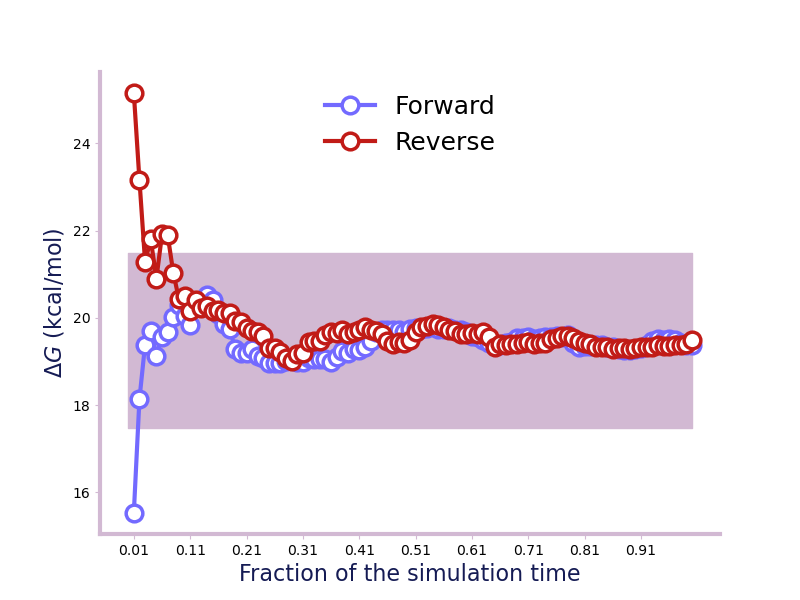
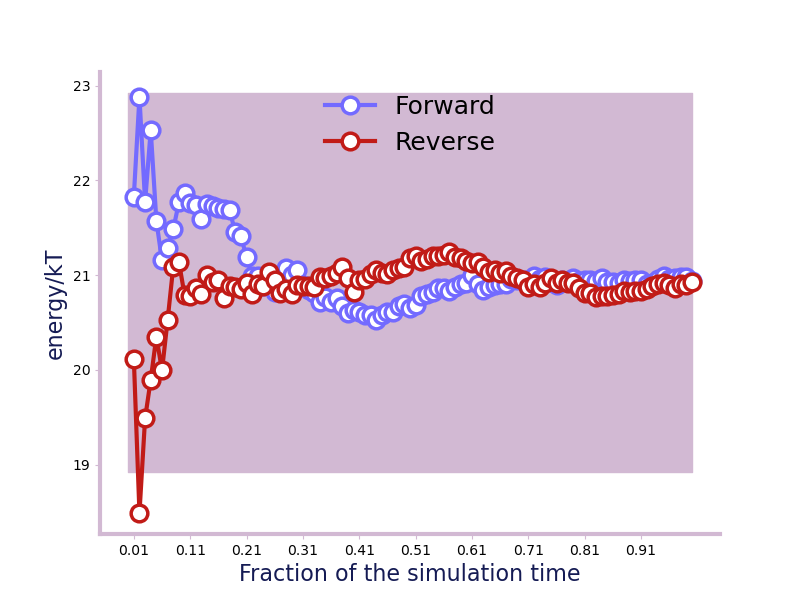
update

diff --git a/src/alchemlyb/convergence/convergence.py b/src/alchemlyb/convergence/convergence.py
@@ -7,7 +7,7 @@ import numpy as np
 from ..estimators import BAR, TI, FEP_ESTIMATORS, TI_ESTIMATORS
 from ..estimators import AutoMBAR as MBAR
 from .. import concat
-from ..postprocessors.units import to_kcalmol
+from ..postprocessors.units import to_kT
 
 
 def forward_backward_convergence(df_list, estimator='MBAR', num=10, **kwargs):
@@ -175,15 +175,15 @@ def _cummean(vals, out_length):
     result = np.cumsum(mean) / np.arange(1, out_length+1)
     return result
 
-def R_c(series, precision=0.01, tol=2):
-    '''Generate the convergence criteria R_c for a single simulation.
+def fwdrev_cumavg_Rc(series, precision=0.01, tol=2):
+    '''Generate the convergence criteria :math:`R_c` for a single simulation.
 
     The input will be pandas.Series generated by
     :func:`~alchemlyb.preprocessing.subsampling.decorrelate_u_nk` or
     :func:`~alchemlyb.preprocessing.subsampling.decorrelate_dhdl`.
 
-    The output will the float R_c. R_c = 0 indicates that the system is well
-    equilibrated right from the beginning while R_c = 1 signifies that the
+    The output will the float :math:`R_c`. :math:`R_c = 0` indicates that the system is well
+    equilibrated right from the beginning while :math:`R_c = 1` signifies that the
     whole trajectory is not equilibrated.
 
     Parameters
@@ -191,9 +191,11 @@ def R_c(series, precision=0.01, tol=2):
     series : pandas.Series
         The input energy array.
     precision : float
-        The precision of the output R_c.
+        The precision of the output :math:`R_c`. To speed the calculation up, the data
+        has been block-averaged before doing the calculation, the size of the
+        block is controlled by the desired precision.
     tol : float
-        Tolerance of the convergence check in kcal/mol.
+        Tolerance of the convergence check in :math:`kT`.
 
     Returns
     -------
@@ -216,14 +218,14 @@ def R_c(series, precision=0.01, tol=2):
 
     Note
     ----
-    This function tries to compute R_c from equation 16 from
+    This function computes :math:`R_c` from equation 16 from
     https://www.ncbi.nlm.nih.gov/pmc/articles/PMC8397498/#FD16. The code is
     modified based on Shujie Fan's (@VOD555) work.
 
 
     .. versionadded:: 1.0.0
     '''
-    series = to_kcalmol(series)
+    series = to_kT(series)
     array = series.to_numpy()
     out_length = int(1 / precision)
     g_forward = _cummean(array, out_length)
@@ -238,7 +240,7 @@ def R_c(series, precision=0.01, tol=2):
 
     # Final value
     g = g_forward[-1]
-    conv = ((g_forward>g-tol) & (g_forward<g+tol)) & ((g_backward>g-tol)&(g_backward<g+tol))
+    conv = np.logical_and(np.abs(g_forward - g) < tol, np.abs(g_backward - g) < tol)
     for i in range(out_length):
         if all(conv[i:]):
             return i / length, convergence
@@ -252,26 +254,28 @@ def R_c(series, precision=0.01, tol=2):
         return 1.0, convergence
 
 def A_c(series_list, precision=0.01, diff=2):
-    '''Generate the ensemble convergence criteria A_c for a set of simulations.
+    '''Generate the ensemble convergence criteria :math:`A_c` for a set of simulations.
 
     The input is a list of pandas.Series generated by
     :func:`~alchemlyb.preprocessing.subsampling.decorrelate_u_nk` or
     :func:`~alchemlyb.preprocessing.subsampling.decorrelate_dhdl`.
 
-    The output will the float A_c. A_c is a number between 0 and 1 that can be
+    The output will the float :math:`A_c`. :math:`A_c` is a number between 0 and 1 that can be
     interpreted as the ratio of the total equilibrated simulation time to the
-    whole simulation time for a full set of simulations. A_c = 1 means that all
+    whole simulation time for a full set of simulations. :math:`A_c = 1` means that all
     simulation time frames in all windows can be considered equilibrated, while
-    A_c = 0 indicates that nothing is equilibrated.
+    :math:`A_c = 0` indicates that nothing is equilibrated.
 
     Parameters
     ----------
     series_list : list
         A list of pandas.Series energy array.
     precision : float
-        The precision of the output R_c.
+        The precision of the output :math:`A_c`. To speed the calculation up, the data
+        has been block-averaged before doing the calculation, the size of the
+        block is controlled by the desired precision.
     diff : float
-        Tolerance of the convergence check in kcal/mol.
+        Tolerance of the convergence check in :math:`kT`.
 
     Returns
     -------
@@ -280,15 +284,16 @@ def A_c(series_list, precision=0.01, diff=2):
 
     Note
     ----
-    This function tries to compute R_c from equation 18 from
-    https://www.ncbi.nlm.nih.gov/pmc/articles/PMC8397498/#FD18.
+    This function tries to compute :math:`A_c` from equation 18 from
+    https://www.ncbi.nlm.nih.gov/pmc/articles/PMC8397498/#FD18. See also
+    :func:`~alchemlyb.convergence.fwdrev_cumavg_Rc`.
 
 
     .. versionadded:: 1.0.0
     '''
     logger = logging.getLogger('alchemlyb.convergence.A_c')
     n_R_c = len(series_list)
-    R_c_list = [R_c(series, precision, diff)[0] for series in series_list]
+    R_c_list = [fwdrev_cumavg_Rc(series, precision, diff)[0] for series in series_list]
     logger.info(f'R_c list: {R_c_list}')
     # Integrate the R_c_list <= R_c over the range of 0 to 1
     array_01 = np.hstack((R_c_list, [0, 1]))

diff --git a/src/alchemlyb/tests/test_convergence.py b/src/alchemlyb/tests/test_convergence.py
@@ -4,7 +4,7 @@ import pytest
 
 from alchemtest.gmx import load_benzene
 from alchemlyb.parsing import gmx
-from alchemlyb.convergence import forward_backward_convergence, R_c, A_c
+from alchemlyb.convergence import forward_backward_convergence, fwdrev_cumavg_Rc, A_c
 from alchemlyb.convergence.convergence import _cummean
 
 
@@ -84,26 +84,26 @@ def test_R_c_converged():
     data = pd.Series(data=[0,]*100)
     data.attrs['temperature'] = 310
     data.attrs['energy_unit'] = 'kcal/mol'
-    value, running_average = R_c(data)
+    value, running_average = fwdrev_cumavg_Rc(data)
     np.testing.assert_allclose(value, 0.0)
 
 def test_R_c_notconverged():
     data = pd.Series(data=range(21))
     data.attrs['temperature'] = 310
     data.attrs['energy_unit'] = 'kcal/mol'
-    value, running_average = R_c(data, tol=0.1, precision=0.05)
+    value, running_average = fwdrev_cumavg_Rc(data, tol=0.1, precision=0.05)
     np.testing.assert_allclose(value, 1.0)
 
 def test_R_c_real():
     data = pd.Series(data=np.hstack((range(10), [4.5,]*10)))
     data.attrs['temperature'] = 310
     data.attrs['energy_unit'] = 'kcal/mol'
-    value, running_average = R_c(data)
-    np.testing.assert_allclose(value, 0.3)
+    value, running_average = fwdrev_cumavg_Rc(data)
+    np.testing.assert_allclose(value, 0.35)
 
 def test_A_c_real():
     data = pd.Series(data=np.hstack((range(10), [4.5,]*10)))
     data.attrs['temperature'] = 310
     data.attrs['energy_unit'] = 'kcal/mol'
     value = A_c([data, ] * 2)
-    np.testing.assert_allclose(value, 0.7)
+    np.testing.assert_allclose(value, 0.65)

diff --git a/src/alchemlyb/convergence/__init__.py b/src/alchemlyb/convergence/__init__.py
@@ -1,1 +1,1 @@
-from .convergence import forward_backward_convergence, R_c, A_c
+from .convergence import forward_backward_convergence, fwdrev_cumavg_Rc, A_c

diff --git a/docs/convergence.rst b/docs/convergence.rst
@@ -33,30 +33,31 @@ Will give a plot looks like this
    A convergence plot of showing that the forward and backward has converged
    fully.
 
-Fraction Convergence
---------------------
+Fractional equilibration time
+-----------------------------
 
 Another way of assessing whether the simulation has converged is to check the
-energy files. In [Fan2021]_, :func:`~alchemlyb.convergence.R_c` and
-:func:`~alchemlyb.convergence.A_c` are two criteria of checking the
-convergence. :func:`~alchemlyb.convergence.R_c` takes a decorrelated
+energy files. In [Fan2021]_, :math:`R_c` and
+:math:`A_c` are two criteria of checking the
+convergence. :func:`~alchemlyb.convergence.fwdrev_cumavg_Rc` takes a decorrelated
 :class:`pandas.Series` as input and gives the metric
-:func:`~alchemlyb.convergence.R_c`, which is 0 for fully-equilibrated
+:math:`R_c`, which is 0 for fully-equilibrated
 simulation and 1 for fully-unequilibrated simulation. ::
 
     >>> from alchemtest.gmx import load_ABFE
     >>> from alchemlyb.parsing.gmx import extract_dHdl
     >>> from alchemlyb.preprocessing import decorrelate_dhdl, dhdl2series
-    >>> from alchemlyb.convergence import R_c
+    >>> from alchemlyb.convergence import fwdrev_cumavg_Rc
     >>> from alchemlyb.visualisation import plot_convergence
 
     >>> file = load_ABFE().data['ligand'][0]
     >>> dhdl = extract_dHdl(file, T=300)
     >>> decorrelated = decorrelate_dhdl(dhdl, remove_burnin=True)
-    >>> value, running_average = R_c(dhdl2series(decorrelated), tol=2)
+    >>> value, running_average = fwdrev_cumavg_Rc(dhdl2series(decorrelated), tol=2)
     >>> print(value)
-    0.02
-    >>> plot_convergence(running_average, final_error=2, units='kcal/mol')
+    0.04
+    >>> ax = plot_convergence(running_average, final_error=2, units='kcal/mol')
+    >>> ax.set_ylabel('energy/kT')
 
 
 Will give a plot like this.
@@ -90,7 +91,7 @@ The currently available connvergence functions:
     :toctree: convergence
 
     convergence
-    R_c
+    fwdrev_cumavg_Rc
     A_c
 
 References
